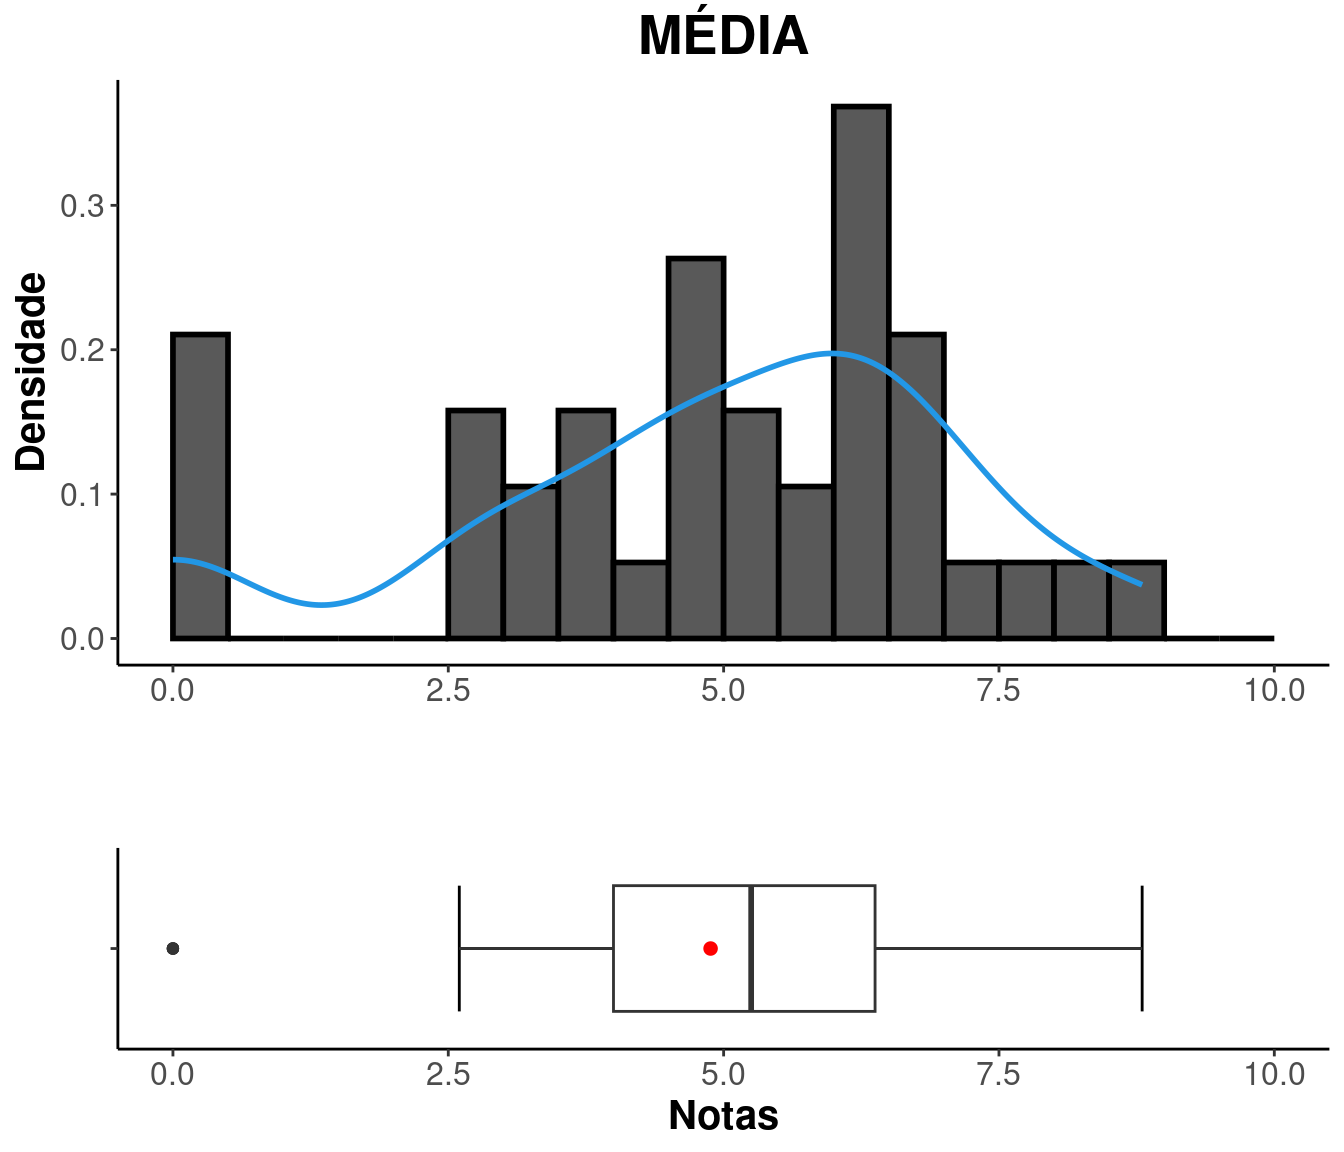
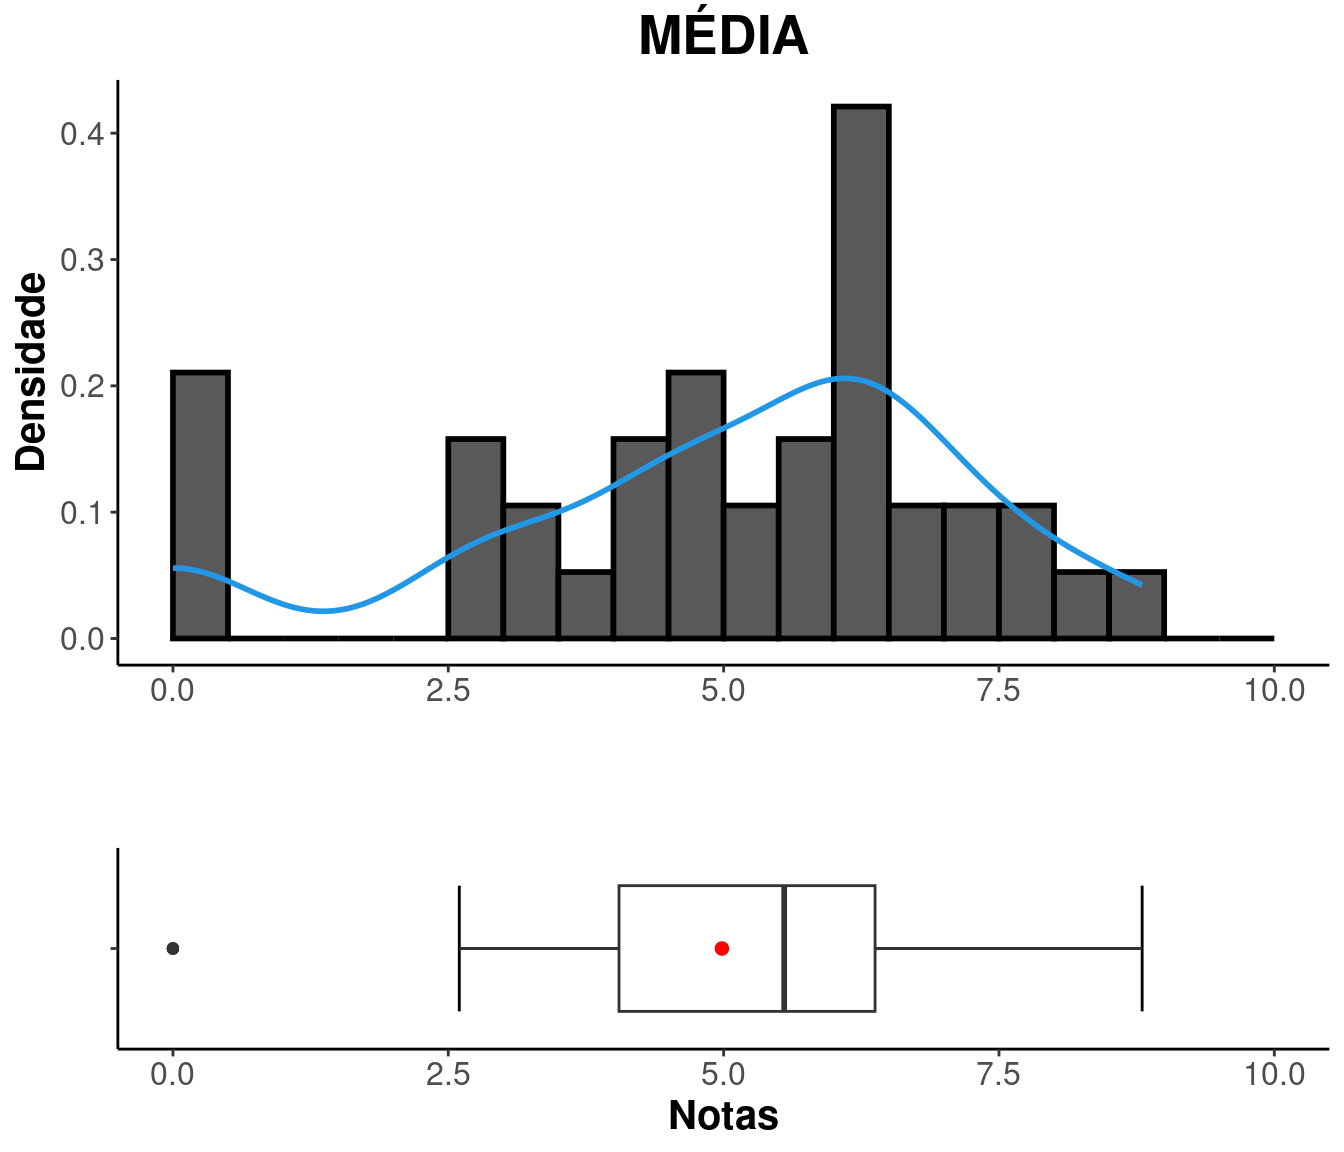
corrige notas

diff --git a/notas.html b/notas.html
@@ -299,8 +299,8 @@ $(document).ready(function () {
 <p>Busque sua situação digitando seu GRR na caixa “Search”.</p>
 <p><br />
 </p>
-<div class="datatables html-widget html-fill-item-overflow-hidden html-fill-item" id="htmlwidget-35454c12654b04efc3ce" style="width:100%;height:auto;"></div>
-<script type="application/json" data-for="htmlwidget-35454c12654b04efc3ce">{"x":{"filter":"none","vertical":false,"editable":{"target":"cell","disable":{"columns":null},"numeric":[1,2,3,4,5],"date":[]},"data":[["GRR20182666","GRR20222157","GRR20224231","GRR20222161","GRR20215807","GRR20210361","GRR20173235","GRR20212937","GRR20213825","GRR2022159","GRR20224216","GRR20212891","GRR20220385","GRR20224212","GRR20222151","GRR20224913","GRR20224912","GRR20212978","GRR20222165","GRR20202359","GRR20224220","GRR20220395","GRR20207140","GRR20222164","GRR20224907","GRR20133223","GRR20205597","GRR20222059","GRR20200165","GRR20223472","GRR20223951","GRR20220370","GRR20203430","GRR20222142","GRR20215605","GRR20212968","GRR20221911","GRR20220367"],[7.9,6.8,6,5.9,null,4.6,5.7,6.6,7,5.8,5.5,6,null,7.3,6.7,7.6,6.9,8.199999999999999,6.4,null,3.4,3.7,null,8.300000000000001,5.6,4.5,6.4,6.2,5.6,7.3,6,5.5,3,5,8.5,7.8,3.6,5.6],[9.1,2.7,5.5,3.6,null,1.65,4,4.7,3.2,2.8,4.1,5.9,null,1.4,2.6,3.9,7.5,8.6,3.2,null,0.6,4.2,null,7,7.3,2,2.1,4.9,5.2,2.5,2,5.8,2.1,1.5,7.5,5.3,0,0.5],[8.199999999999999,2.3,5.5,5,null,null,null,4.5,4.5,6,4.5,null,null,2,5,4.5,7.5,7,6,null,3,6.5,null,6,5.3,null,3,5,5,2.2,1.5,5.6,2.5,2.2,5,6.6,null,2.6],[10,8.300000000000001,9.4,9.800000000000001,0,2.9,2.3,8.4,7.8,9.5,7.4,2.2,0,8.1,9.1,8.800000000000001,8.699999999999999,10,6.1,0,4.6,5.4,0,8.1,9.800000000000001,2.6,7.4,8.800000000000001,9.800000000000001,4,6.5,8.4,2.8,9.6,7,8.300000000000001,4.1,7.8],[8.800000000000001,5.1,6.6,6.1,0,3.1,4,6.1,5.7,6.1,5.4,4.7,0,4.7,5.9,6.2,7.7,8.5,5.5,0,2.9,5,0,7.4,7,3.1,4.8,6.3,6.4,4,4,6.4,2.6,4.6,7,7,2.6,4.2],["APROVADO","EXAME","EXAME","EXAME","REPROVADO","REPROVADO","EXAME","EXAME","EXAME","EXAME","EXAME","EXAME","REPROVADO","EXAME","EXAME","EXAME","APROVADO","APROVADO","EXAME","REPROVADO","REPROVADO","EXAME","REPROVADO","APROVADO","APROVADO","REPROVADO","EXAME","EXAME","EXAME","EXAME","EXAME","EXAME","REPROVADO","EXAME","APROVADO","APROVADO","REPROVADO","EXAME"]],"container":"<table class=\"cell-border stripe\">\n  <thead>\n    <tr>\n      <th>GRR<\/th>\n      <th>P1<\/th>\n      <th>P2<\/th>\n      <th>P3<\/th>\n      <th>REMOTAS<\/th>\n      <th>MÉDIA<\/th>\n      <th>SITUAÇÃO<\/th>\n    <\/tr>\n  <\/thead>\n<\/table>","options":{"columnDefs":[{"className":"dt-right","targets":[1,2,3,4,5]}],"order":[],"autoWidth":false,"orderClasses":false}},"evals":[],"jsHooks":[]}</script>
+<div class="datatables html-widget html-fill-item-overflow-hidden html-fill-item" id="htmlwidget-f51039832efcaf733302" style="width:100%;height:auto;"></div>
+<script type="application/json" data-for="htmlwidget-f51039832efcaf733302">{"x":{"filter":"none","vertical":false,"editable":{"target":"cell","disable":{"columns":null},"numeric":[1,2,3,4,5],"date":[]},"data":[["GRR20182666","GRR20222157","GRR20224231","GRR20222161","GRR20215807","GRR20210361","GRR20173235","GRR20212937","GRR20213825","GRR2022159","GRR20224216","GRR20212891","GRR20220385","GRR20224212","GRR20222151","GRR20224913","GRR20224912","GRR20212978","GRR20222165","GRR20202359","GRR20224220","GRR20220395","GRR20207140","GRR20222164","GRR20224907","GRR20133223","GRR20205597","GRR20222059","GRR20200165","GRR20223472","GRR20223951","GRR20220370","GRR20203430","GRR20222142","GRR20215605","GRR20212968","GRR20221911","GRR20220367"],[7.9,6.8,6,5.9,null,4.6,5.7,6.6,7,5.8,5.5,6,null,7.3,6.7,7.6,6.9,8.199999999999999,6.4,null,3.4,3.7,null,8.300000000000001,5.6,4.5,6.4,6.2,5.6,7.3,6,5.5,3,5,8.5,7.8,3.6,5.6],[9.1,2.7,5.5,3.6,null,1.65,4,4.7,3.2,2.8,4.1,5.9,null,1.4,2.6,3.9,7.5,8.6,3.2,null,0.6,4.2,null,7,7.3,2,2.1,4.9,5.2,2.5,2,5.8,2.1,1.5,7.5,5.3,0,0.5],[8.199999999999999,2.3,5.5,5,null,null,null,4.5,4.5,6,4.5,null,null,2,5,4.5,7.5,7,6,null,3,6.5,null,6,5.3,null,3,5,5,2.2,1.5,5.6,2.5,2.2,5,6.6,null,2.6],[10,9.699999999999999,9.4,9.800000000000001,0,2.9,2.3,8.4,8.9,9.5,8.5,2.2,0,8.1,9.1,9.199999999999999,8.699999999999999,10,9.1,0,4.6,5.4,0,9.800000000000001,9.800000000000001,2.6,8.9,8.800000000000001,10,5.1,7.3,8.6,2.8,9.6,8.199999999999999,9,4.1,9.1],[8.800000000000001,5.4,6.6,6.1,0,3.1,4,6.1,6,6.1,5.7,4.7,0,4.7,5.9,6.3,7.7,8.5,6.2,0,3,5,0,7.8,7,3.1,5.1,6.3,6.5,4.3,4.2,6.4,2.6,4.6,7.3,7.2,2.6,4.5],["APROVADO","EXAME","EXAME","EXAME","REPROVADO","REPROVADO","EXAME","EXAME","EXAME","EXAME","EXAME","EXAME","REPROVADO","EXAME","EXAME","EXAME","APROVADO","APROVADO","EXAME","REPROVADO","REPROVADO","EXAME","REPROVADO","APROVADO","APROVADO","REPROVADO","EXAME","EXAME","EXAME","EXAME","EXAME","EXAME","REPROVADO","EXAME","APROVADO","APROVADO","REPROVADO","EXAME"]],"container":"<table class=\"cell-border stripe\">\n  <thead>\n    <tr>\n      <th>GRR<\/th>\n      <th>P1<\/th>\n      <th>P2<\/th>\n      <th>P3<\/th>\n      <th>REMOTAS<\/th>\n      <th>MÉDIA<\/th>\n      <th>SITUAÇÃO<\/th>\n    <\/tr>\n  <\/thead>\n<\/table>","options":{"columnDefs":[{"className":"dt-right","targets":[1,2,3,4,5]}],"order":[],"autoWidth":false,"orderClasses":false}},"evals":[],"jsHooks":[]}</script>
 <hr />
 </div>
 <div id="análise-das-notas"
@@ -443,10 +443,10 @@ class="section level1 tabset tabset-fade tabset-pills">
 <tbody>
 <tr class="odd">
 <td align="center">0</td>
-<td align="center">4.025</td>
-<td align="center">6.416</td>
-<td align="center">7.8</td>
-<td align="center">8.8</td>
+<td align="center">4.225</td>
+<td align="center">6.829</td>
+<td align="center">8.65</td>
+<td align="center">9.35</td>
 <td align="center">10</td>
 </tr>
 </tbody>
@@ -481,9 +481,9 @@ class="section level1 tabset tabset-fade tabset-pills">
 <tbody>
 <tr class="odd">
 <td align="center">0</td>
-<td align="center">4</td>
-<td align="center">4.882</td>
-<td align="center">5.25</td>
+<td align="center">4.05</td>
+<td align="center">4.984</td>
+<td align="center">5.55</td>
 <td align="center">6.375</td>
 <td align="center">8.8</td>
 </tr>
